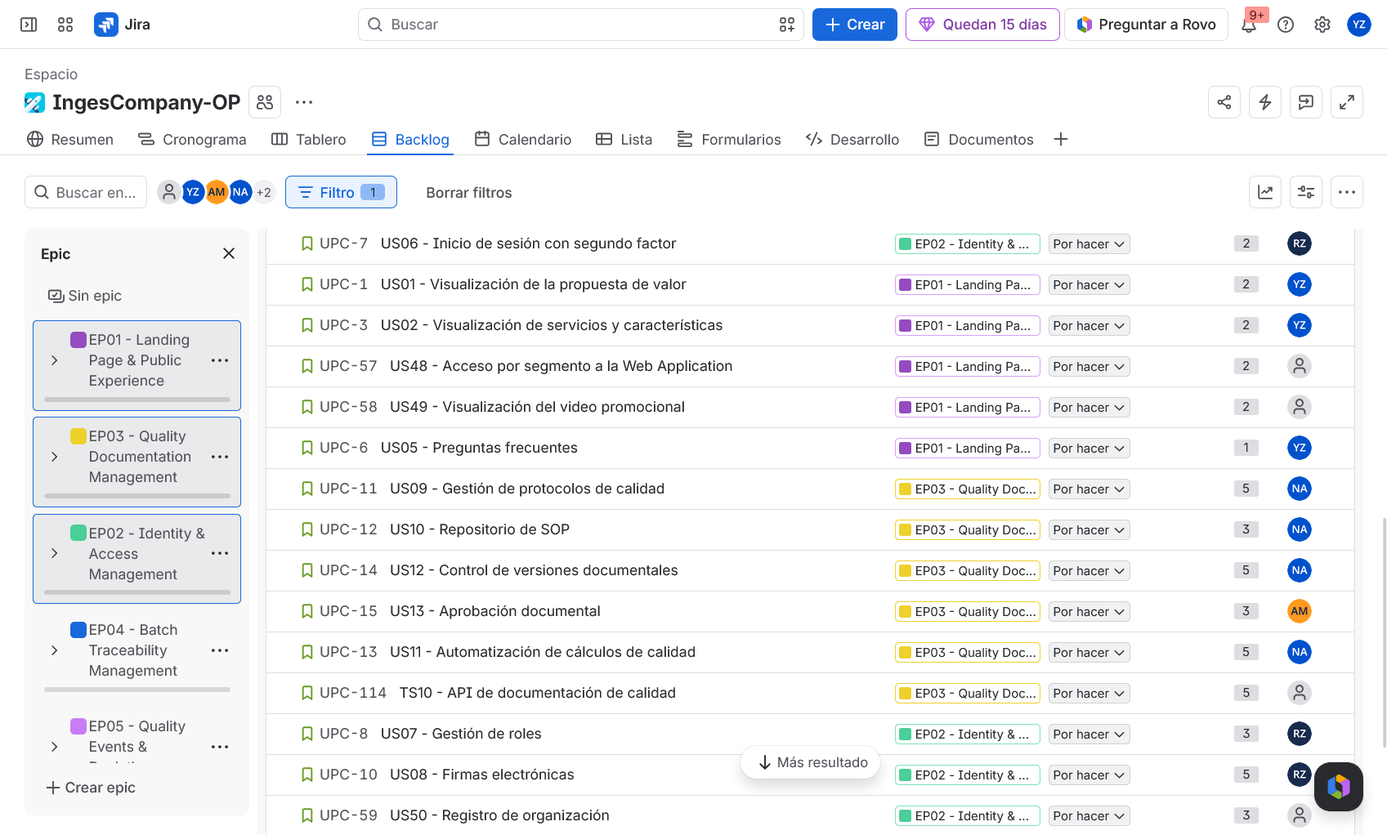
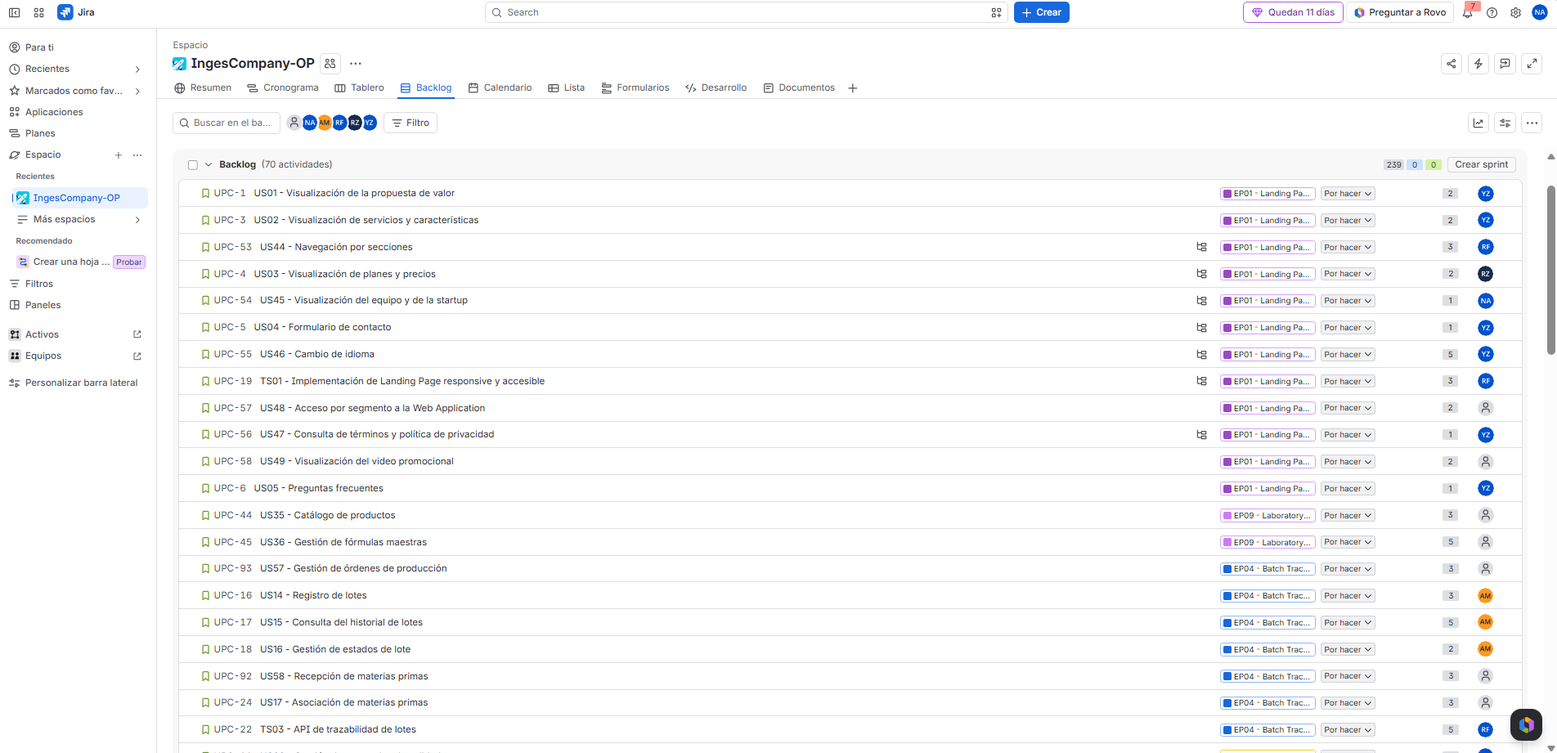
docs(chapter3): order product backlog by user task matrix value

diff --git a/docs/chapter3.md b/docs/chapter3.md
@@ -1,13 +1,22 @@
 # Capítulo III: Requirements Specification
-En este capítulo se presenta los requisitos especìficados de DoofPlus, acorde al análisis de la problemática, los segmentos objetivo y el alcance obtenido durante el desarrollo. La especificación cubre tres productos de la solución: la landing page pública, la aplicación web frontend y los servicios backend RESTful implementados con una arquitectura basada en bounded contexts.
+En este capítulo se presentan los requisitos especificados de DoofPlus, acorde al análisis de la problemática, los segmentos objetivo y el alcance obtenido durante el desarrollo. La especificación cubre tres productos de la solución: la landing page pública, la aplicación web frontend y los servicios backend RESTful implementados con una arquitectura basada en bounded contexts.
 
 
 ## 3.1. User Stories
+
+Las User Stories se obtuvieron a partir de las necesidades identificadas en las entrevistas, los User Personas, el User Task Matrix y el Big Picture EventStorming del capítulo II. Se organizan en 11 epics que agrupan 59 User Stories y 11 Technical Stories, presentadas en un único cuadro con una fila por epic o historia:
+
+- **Landing Page (EP01):** historias redactadas con el rol de visitante o de visitante de un segmento (especialista QA/QC o jefe de producción), que cubren las secciones del sitio estático y su vínculo con la Web Application.
+- **Web Application (EP02 a EP11):** historias de los roles de especialista QA/QC, jefe o supervisor de producción y administrador del laboratorio, agrupadas por capacidades del negocio: identidad y accesos, documentación de calidad, trazabilidad de lotes, desviaciones y CAPA, integración IoT, cumplimiento y auditoría, dashboards, operaciones de laboratorio, comunicación entre áreas y suscripciones.
+- **Technical Stories (TS01 a TS11):** redactadas con el rol Developer. TS01 corresponde a la implementación de la Landing Page y las demás a los endpoints del RESTful API de cada epic, con escenarios de request y response.
+
+Los criterios de aceptación siguen la estructura de Gherkin (Dado que / Cuando / Entonces), se redactan en tiempo presente y en tercera persona, no hacen referencia a detalles de la interfaz de usuario y son comprobables.
+
 | **Epic / Story ID** | **Título** | **Descripción** | **Criterios de Aceptación** | **Relacionado con (Epic ID)** |
 | --- | --- | --- | --- | --- |
 | **EP01** | **Landing Page & Public Experience** | Agrupa las funcionalidades del sitio web estático (Landing Page) que comunican la propuesta de valor a los visitantes de cada segmento y los dirigen a la Web Application. | – | – |
 | US01 | Visualización de la propuesta de valor | Como visitante especialista QA/QC o jefe de producción, quiero conocer la propuesta de valor de DoofPlus para evaluar si responde a las necesidades de mi laboratorio. | **Escenario 1: Visualización de la propuesta de valor**<br>Dado que el visitante accede a la Landing Page<br>Cuando se carga la sección principal (Home)<br>Entonces visualiza el título, la descripción de la propuesta de valor y la opción para comenzar a usar DoofPlus.<br>**Escenario 2: Visualización en dispositivo móvil**<br>Dado que el visitante accede desde un smartphone<br>Cuando se carga la sección principal<br>Entonces la propuesta de valor y la opción para comenzar a usar DoofPlus se muestran completas y adaptadas al dispositivo. | EP01 |
-| US02 | Visualización de servicios y características | Como visitante, quiero conocer los servicios y características de DoofPlus para comprender cómo mejora la trazabilidad y la gestión de calidad. | **Escenario 1: Consulta de servicios**<br>Dado que el visitante navega a la sección de servicios<br>Cuando la sección se muestra<br>Entonces visualiza los servicios Real-Time IoT Telemetry, Digital Batch Record Management, GMP Compliance Engine y Audit-Ready Reports con su descripción.<br>**Escenario 2: Detalle de una característica**<br>Dado que el visitante se encuentra en la sección de características<br>Cuando elige una característica<br>Entonces se muestra su descripción completa. | EP01 |
+| US02 | Visualización de servicios y características | Como visitante, quiero conocer los servicios y características de DoofPlus para comprender cómo mejora la trazabilidad y la gestión de calidad. | **Escenario 1: Consulta de servicios**<br>Dado que el visitante navega a la sección de servicios<br>Cuando la sección se muestra<br>Entonces visualiza los servicios Real-Time IoT Monitoring, Automated BPM Compliance, Immutable Traceability y Digital Batch Management con su descripción.<br>**Escenario 2: Detalle de una característica**<br>Dado que el visitante se encuentra en la sección de características<br>Cuando elige una característica<br>Entonces se muestra su descripción completa. | EP01 |
 | US03 | Visualización de planes y precios | Como visitante responsable de compras de un laboratorio, quiero consultar los planes y precios disponibles para identificar la alternativa más adecuada para mi organización. | **Escenario 1: Consulta de precios mensuales**<br>Dado que el visitante accede a la sección de planes<br>Cuando la sección se muestra<br>Entonces visualiza los planes Standard Lab (US$199/mes) y Enterprise (US$599/mes) con sus características.<br>**Escenario 2: Consulta de precios anuales**<br>Dado que el visitante revisa los planes<br>Cuando elige la modalidad de pago anual<br>Entonces se muestran los precios anuales (US$1,990 y US$5,990) con el ahorro correspondiente. | EP01 |
 | US04 | Formulario de contacto | Como visitante interesado, quiero dejar mi correo electrónico para recibir información y solicitar una demostración de DoofPlus. | **Escenario 1: Envío exitoso**<br>Dado que el visitante ingresa un correo electrónico válido<br>Cuando envía la solicitud<br>Entonces el sistema registra la solicitud y confirma su recepción al visitante.<br>**Escenario 2: Correo inválido**<br>Dado que el visitante ingresa un correo con formato inválido o no ingresa ningún correo<br>Cuando intenta enviar la solicitud<br>Entonces la solicitud no se registra y se informa el motivo del error. | EP01 |
 | US05 | Preguntas frecuentes | Como visitante, quiero consultar preguntas frecuentes para resolver dudas comunes sobre la plataforma. | **Escenario 1: Consulta de una respuesta**<br>Dado que el visitante accede a la sección de preguntas frecuentes<br>Cuando selecciona una pregunta<br>Entonces se muestra la respuesta correspondiente.<br>**Escenario 2: Duda no resuelta**<br>Dado que el visitante no encuentra respuesta a su duda<br>Cuando termina de revisar las preguntas<br>Entonces se le ofrece la opción de contactar al equipo de DoofPlus. | EP01 |
@@ -95,7 +104,24 @@ El Impact Mapping de DoofPlus conecta los objetivos estratégicos del negocio co
 
 ## 3.3. Product Backlog
 
-El Product Backlog de DoofPlus consolida todas las User Stories y Technical Stories identificadas, ordenadas según el valor que aportan al negocio. Las historias relacionadas con la Landing Page se posicionan al inicio dado que corresponden al primer sprint y son el primer punto de contacto con los potenciales clientes. A continuación se presentan las historias del core de calidad y producción farmacéutica, y finalmente las Technical Stories del API.
+El Product Backlog de DoofPlus consolida las 59 User Stories y las 11 Technical Stories de la sección 3.1, con su estimación en Story Points, y las ordena según el valor que aportan al negocio con los siguientes criterios:
+
+1. **Landing Page primero:** sus historias se ubican al inicio porque el sitio estático es el primer punto de contacto con los laboratorios y, según el statement, se considera desde el primer sprint.
+2. **Valor de las historias de la Web Application:** se mide con el User Task Matrix de la sección 2.3.2. Cada tarea recibe un puntaje igual a la suma, para ambos User Personas, de su frecuencia (Often = 3, Occasionally = 2, Rarely = 1) multiplicada por su importancia (High = 3, Medium = 2, Low = 1), y las historias que apoyan cada tarea se ordenan de mayor a menor puntaje. Cada grupo termina con la Technical Story del API que lo soporta.
+3. **Dependencias:** cuando una historia exige otra en sus criterios de aceptación, la requerida se ubica antes. Por ejemplo, US14 requiere un producto con fórmula maestra aprobada, por lo que US35, US36 y la orden de producción (US57) la preceden.
+4. **Identidad y suscripciones al final:** las historias de autenticación y roles no se colocan al inicio, como indica el statement. Las de suscripción y pago cierran el backlog porque la estrategia comercial de la sección 2.1.2 ofrece una prueba piloto de 30 días, de modo que el cobro se activa cuando el laboratorio ya usa el flujo de calidad.
+
+| Tarea del User Task Matrix | Especialista QA/QC | Jefe de Producción | Puntaje | Historias |
+| --- | --- | --- | :---: | --- |
+| Consultar el historial y trazabilidad de un lote | Often / High (9) | Often / High (9) | 18 | US35, US36, US57, US14, US15, US16, US58, US17, TS03 |
+| Gestionar protocolos, registros y documentación de calidad | Often / High (9) | Occasionally / Medium (4) | 13 | US09, US10, US12, US13, TS10 |
+| Registrar y dar seguimiento a desviaciones e incidencias | Occasionally / High (6) | Occasionally / High (6) | 12 | US56, US18, US19, US20, US21, US22, TS11 |
+| Coordinar la aprobación de insumos y materiales con Calidad | Rarely / Medium (2) | Often / High (9) | 11 | US42, US41, US40, US43, TS08 |
+| Revisar y validar cálculos analíticos e informes de calidad | Often / High (9) | Rarely / Low (1) | 10 | US11, US54 |
+| Supervisar el estado de los lotes durante la fabricación | Rarely / Low (1) | Often / High (9) | 10 | US32, US31, TS06, US23, US24, US25, US26, TS04, US37, US38, US39, TS07 |
+| Recopilar evidencias para auditorías e inspecciones | Occasionally / High (6) | Rarely / Medium (2) | 8 | US27, US28, US29, US30, US59, TS05, US33, US34 |
+
+Entre las dos tareas con puntaje 10, la liberación del lote (US54) precede a la supervisión porque cierra el ciclo de vida del lote que mide el primer business goal de la sección 3.2.
 
 | **# Orden** | **User Story Id** | **Título** | **Descripción** | **Story Points (1 / 2 / 3 / 5 / 8)** |
 | --- | --- | --- | --- | --- |
@@ -111,54 +137,54 @@ El Product Backlog de DoofPlus consolida todas las User Stories y Technical Stor
 | 10 | US47 | Consulta de términos y política de privacidad | Como visitante, quiero consultar los términos y condiciones y la política de privacidad para conocer las condiciones del servicio y el tratamiento de mis datos. | 1 |
 | 11 | US49 | Visualización del video promocional | Como visitante, quiero ver un video sobre DoofPlus para entender rápidamente su funcionamiento. | 2 |
 | 12 | US05 | Preguntas frecuentes | Como visitante, quiero consultar preguntas frecuentes para resolver dudas comunes sobre la plataforma. | 1 |
-| 13 | US14 | Registro de lotes | Como supervisor de producción, quiero registrar lotes para iniciar su trazabilidad digital. | 3 |
-| 14 | US15 | Consulta del historial de lotes | Como especialista QA/QC, quiero consultar el historial completo de un lote para revisar sus registros y eventos asociados. | 5 |
-| 15 | US16 | Gestión de estados de lote | Como supervisor de producción, quiero actualizar el estado de los lotes durante su ciclo de vida para reflejar su avance real. | 2 |
-| 16 | US17 | Asociación de materias primas | Como supervisor de producción, quiero asociar las materias primas utilizadas a un lote para mantener su trazabilidad completa. | 3 |
-| 17 | US58 | Recepción de materias primas | Como supervisor de producción, quiero registrar la recepción de materias primas con su lote de proveedor para que queden en cuarentena hasta su aprobación por Calidad. | 3 |
-| 18 | US57 | Gestión de órdenes de producción | Como jefe de producción, quiero crear y aprobar órdenes de producción para planificar la fabricación de los lotes. | 3 |
-| 19 | US56 | Registro y escalamiento de incidencias | Como supervisor de producción, quiero registrar las incidencias de un lote y escalarlas a Calidad para que se investiguen sin detener la producción más de lo necesario. | 3 |
-| 20 | TS03 | API de trazabilidad de lotes | Como Developer, quiero exponer endpoints REST para registrar y consultar lotes y su línea de tiempo. | 5 |
-| 21 | US18 | Registro de desviaciones | Como especialista QA/QC, quiero registrar desviaciones para realizar su seguimiento y análisis. | 3 |
-| 22 | US19 | Análisis de causa raíz | Como especialista QA/QC, quiero documentar el análisis de causa raíz (RCA) para identificar el origen de las desviaciones. | 5 |
-| 23 | US20 | Gestión CAPA | Como especialista QA/QC, quiero registrar acciones correctivas y preventivas derivadas de una desviación para evitar su recurrencia. | 5 |
-| 24 | US21 | Seguimiento de acciones CAPA | Como especialista QA/QC, quiero monitorear el avance de las acciones CAPA abiertas para asegurar su cumplimiento. | 3 |
-| 25 | US22 | Notificaciones de desviación crítica | Como especialista QA/QC, quiero recibir alertas cuando se registre una desviación crítica para actuar de inmediato. | 2 |
-| 26 | TS11 | API de desviaciones y CAPA | Como Developer, quiero exponer endpoints REST para gestionar desviaciones, causas raíz y acciones CAPA. | 5 |
-| 27 | US54 | Revisión y liberación de lotes | Como especialista QA/QC, quiero poner en cuarentena, evaluar y liberar o rechazar los lotes cerrados para que solo se distribuyan productos conformes. | 5 |
-| 28 | US27 | Audit trail | Como especialista QA/QC, quiero consultar todas las modificaciones realizadas sobre los registros para demostrar la integridad de los datos. | 5 |
-| 29 | US28 | Generación automática de reportes | Como especialista QA/QC, quiero generar reportes regulatorios automáticamente para reducir el tiempo de preparación. | 5 |
-| 30 | US29 | Preparación de auditorías | Como especialista QA/QC, quiero consolidar la documentación requerida para una auditoría para responder a tiempo a los inspectores. | 5 |
-| 31 | US30 | Acceso de auditor a evidencias | Como auditor interno, quiero acceder en modo lectura a las evidencias de los lotes para verificar el cumplimiento. | 3 |
-| 32 | US59 | Registro de auditorías y hallazgos | Como especialista QA/QC, quiero programar auditorías y registrar sus hallazgos para dar seguimiento a su cierre. | 3 |
-| 33 | TS05 | API de auditoría | Como Developer, quiero exponer endpoints para consultar los eventos del audit trail. | 3 |
-| 34 | US09 | Gestión de protocolos de calidad | Como especialista QA/QC, quiero registrar protocolos digitales para estandarizar los procesos y cumplir las BPM. | 5 |
-| 35 | US10 | Repositorio de SOP | Como especialista QA/QC, quiero consultar los procedimientos operativos estándar vigentes para aplicar siempre la versión aprobada. | 3 |
-| 36 | US12 | Control de versiones documentales | Como especialista QA/QC, quiero mantener el historial de versiones de cada documento para garantizar su integridad. | 5 |
-| 37 | US13 | Aprobación documental | Como jefe de aseguramiento de calidad, quiero aprobar documentos mediante firma electrónica para asegurar la trazabilidad regulatoria. | 3 |
-| 38 | US11 | Automatización de cálculos de calidad | Como especialista QA/QC, quiero que el sistema calcule automáticamente los resultados analíticos para reducir errores manuales. | 5 |
-| 39 | TS10 | API de documentación de calidad | Como Developer, quiero exponer endpoints REST para gestionar protocolos, SOP y sus versiones. | 5 |
-| 40 | US42 | Solicitudes de aprobación | Como supervisor de producción, quiero solicitar aprobaciones a Calidad (por ejemplo, liberación de insumos) para continuar la fabricación sin demoras. | 2 |
-| 41 | US41 | Notificaciones entre áreas | Como especialista de calidad, quiero recibir las solicitudes de Producción para atenderlas a tiempo. | 3 |
-| 42 | US40 | Bandeja de tareas | Como usuario, quiero visualizar mis tareas pendientes para atenderlas oportunamente. | 3 |
-| 43 | US43 | Seguimiento de tareas | Como usuario, quiero monitorear el estado de las tareas que asigné para asegurar su cumplimiento. | 3 |
-| 44 | TS08 | Servicio de notificaciones en tiempo real | Como Developer, quiero implementar notificaciones en tiempo real con WebSocket (STOMP sobre Spring WebSocket) para distribuir eventos sin recargar la Web Application. | 5 |
-| 45 | US31 | Dashboard de calidad | Como especialista QA/QC, quiero visualizar indicadores de calidad para priorizar mis actividades. | 3 |
-| 46 | US32 | Dashboard de producción | Como supervisor de producción, quiero visualizar el estado de los lotes en curso para tomar decisiones oportunas. | 3 |
-| 47 | US33 | Indicadores de trazabilidad | Como jefe de calidad, quiero monitorear el porcentaje de lotes con trazabilidad completa para anticipar observaciones de auditoría. | 3 |
-| 48 | US34 | Indicadores de desviaciones | Como jefe de calidad, quiero identificar tendencias de desviaciones para prevenir su recurrencia. | 3 |
-| 49 | TS06 | API de KPIs | Como Developer, quiero exponer métricas consolidadas para los dashboards. | 5 |
-| 50 | US23 | Registro de dispositivos IoT | Como administrador del laboratorio, quiero registrar los sensores IoT conectados para controlar su inventario. | 3 |
-| 51 | US24 | Asociación de sensores a un lote | Como supervisor de producción, quiero asociar los sensores de un equipo a un lote en fabricación para vincular sus lecturas. | 3 |
-| 52 | US25 | Captura automática de evidencias | Como supervisor de producción, quiero que las variables críticas se registren automáticamente para evitar la transcripción manual. | 5 |
-| 53 | US26 | Consulta de registros IoT | Como especialista QA/QC, quiero consultar los datos IoT asociados a un lote para respaldar su liberación. | 3 |
-| 54 | TS04 | API de ingesta IoT | Como Developer, quiero implementar un endpoint que reciba la telemetría enviada por ThingsBoard. | 5 |
-| 55 | US35 | Catálogo de productos | Como jefe de producción, quiero administrar los productos farmacéuticos para fabricarlos en nuevos lotes. | 3 |
-| 56 | US36 | Gestión de fórmulas maestras | Como jefe de producción, quiero registrar las fórmulas maestras aprobadas para que cada lote se fabrique según la especificación autorizada. | 5 |
-| 57 | US37 | Gestión de equipos | Como supervisor de producción, quiero registrar los equipos utilizados en la fabricación para controlar su estado. | 3 |
-| 58 | US38 | Gestión de calibraciones | Como supervisor de producción, quiero controlar la calibración de equipos y sensores para asegurar mediciones válidas. | 3 |
-| 59 | US39 | Mantenimiento preventivo | Como supervisor de producción, quiero registrar los mantenimientos preventivos para evitar paradas no planificadas. | 3 |
-| 60 | TS07 | API de operaciones de laboratorio | Como Developer, quiero implementar endpoints REST para productos, fórmulas y equipos. | 5 |
+| 13 | US35 | Catálogo de productos | Como jefe de producción, quiero administrar los productos farmacéuticos para fabricarlos en nuevos lotes. | 3 |
+| 14 | US36 | Gestión de fórmulas maestras | Como jefe de producción, quiero registrar las fórmulas maestras aprobadas para que cada lote se fabrique según la especificación autorizada. | 5 |
+| 15 | US57 | Gestión de órdenes de producción | Como jefe de producción, quiero crear y aprobar órdenes de producción para planificar la fabricación de los lotes. | 3 |
+| 16 | US14 | Registro de lotes | Como supervisor de producción, quiero registrar lotes para iniciar su trazabilidad digital. | 3 |
+| 17 | US15 | Consulta del historial de lotes | Como especialista QA/QC, quiero consultar el historial completo de un lote para revisar sus registros y eventos asociados. | 5 |
+| 18 | US16 | Gestión de estados de lote | Como supervisor de producción, quiero actualizar el estado de los lotes durante su ciclo de vida para reflejar su avance real. | 2 |
+| 19 | US58 | Recepción de materias primas | Como supervisor de producción, quiero registrar la recepción de materias primas con su lote de proveedor para que queden en cuarentena hasta su aprobación por Calidad. | 3 |
+| 20 | US17 | Asociación de materias primas | Como supervisor de producción, quiero asociar las materias primas utilizadas a un lote para mantener su trazabilidad completa. | 3 |
+| 21 | TS03 | API de trazabilidad de lotes | Como Developer, quiero exponer endpoints REST para registrar y consultar lotes y su línea de tiempo. | 5 |
+| 22 | US09 | Gestión de protocolos de calidad | Como especialista QA/QC, quiero registrar protocolos digitales para estandarizar los procesos y cumplir las BPM. | 5 |
+| 23 | US10 | Repositorio de SOP | Como especialista QA/QC, quiero consultar los procedimientos operativos estándar vigentes para aplicar siempre la versión aprobada. | 3 |
+| 24 | US12 | Control de versiones documentales | Como especialista QA/QC, quiero mantener el historial de versiones de cada documento para garantizar su integridad. | 5 |
+| 25 | US13 | Aprobación documental | Como jefe de aseguramiento de calidad, quiero aprobar documentos mediante firma electrónica para asegurar la trazabilidad regulatoria. | 3 |
+| 26 | TS10 | API de documentación de calidad | Como Developer, quiero exponer endpoints REST para gestionar protocolos, SOP y sus versiones. | 5 |
+| 27 | US56 | Registro y escalamiento de incidencias | Como supervisor de producción, quiero registrar las incidencias de un lote y escalarlas a Calidad para que se investiguen sin detener la producción más de lo necesario. | 3 |
+| 28 | US18 | Registro de desviaciones | Como especialista QA/QC, quiero registrar desviaciones para realizar su seguimiento y análisis. | 3 |
+| 29 | US19 | Análisis de causa raíz | Como especialista QA/QC, quiero documentar el análisis de causa raíz (RCA) para identificar el origen de las desviaciones. | 5 |
+| 30 | US20 | Gestión CAPA | Como especialista QA/QC, quiero registrar acciones correctivas y preventivas derivadas de una desviación para evitar su recurrencia. | 5 |
+| 31 | US21 | Seguimiento de acciones CAPA | Como especialista QA/QC, quiero monitorear el avance de las acciones CAPA abiertas para asegurar su cumplimiento. | 3 |
+| 32 | US22 | Notificaciones de desviación crítica | Como especialista QA/QC, quiero recibir alertas cuando se registre una desviación crítica para actuar de inmediato. | 2 |
+| 33 | TS11 | API de desviaciones y CAPA | Como Developer, quiero exponer endpoints REST para gestionar desviaciones, causas raíz y acciones CAPA. | 5 |
+| 34 | US42 | Solicitudes de aprobación | Como supervisor de producción, quiero solicitar aprobaciones a Calidad (por ejemplo, liberación de insumos) para continuar la fabricación sin demoras. | 2 |
+| 35 | US41 | Notificaciones entre áreas | Como especialista de calidad, quiero recibir las solicitudes de Producción para atenderlas a tiempo. | 3 |
+| 36 | US40 | Bandeja de tareas | Como usuario, quiero visualizar mis tareas pendientes para atenderlas oportunamente. | 3 |
+| 37 | US43 | Seguimiento de tareas | Como usuario, quiero monitorear el estado de las tareas que asigné para asegurar su cumplimiento. | 3 |
+| 38 | TS08 | Servicio de notificaciones en tiempo real | Como Developer, quiero implementar notificaciones en tiempo real con WebSocket (STOMP sobre Spring WebSocket) para distribuir eventos sin recargar la Web Application. | 5 |
+| 39 | US11 | Automatización de cálculos de calidad | Como especialista QA/QC, quiero que el sistema calcule automáticamente los resultados analíticos para reducir errores manuales. | 5 |
+| 40 | US54 | Revisión y liberación de lotes | Como especialista QA/QC, quiero poner en cuarentena, evaluar y liberar o rechazar los lotes cerrados para que solo se distribuyan productos conformes. | 5 |
+| 41 | US32 | Dashboard de producción | Como supervisor de producción, quiero visualizar el estado de los lotes en curso para tomar decisiones oportunas. | 3 |
+| 42 | US31 | Dashboard de calidad | Como especialista QA/QC, quiero visualizar indicadores de calidad para priorizar mis actividades. | 3 |
+| 43 | TS06 | API de KPIs | Como Developer, quiero exponer métricas consolidadas para los dashboards. | 5 |
+| 44 | US23 | Registro de dispositivos IoT | Como administrador del laboratorio, quiero registrar los sensores IoT conectados para controlar su inventario. | 3 |
+| 45 | US24 | Asociación de sensores a un lote | Como supervisor de producción, quiero asociar los sensores de un equipo a un lote en fabricación para vincular sus lecturas. | 3 |
+| 46 | US25 | Captura automática de evidencias | Como supervisor de producción, quiero que las variables críticas se registren automáticamente para evitar la transcripción manual. | 5 |
+| 47 | US26 | Consulta de registros IoT | Como especialista QA/QC, quiero consultar los datos IoT asociados a un lote para respaldar su liberación. | 3 |
+| 48 | TS04 | API de ingesta IoT | Como Developer, quiero implementar un endpoint que reciba la telemetría enviada por ThingsBoard. | 5 |
+| 49 | US37 | Gestión de equipos | Como supervisor de producción, quiero registrar los equipos utilizados en la fabricación para controlar su estado. | 3 |
+| 50 | US38 | Gestión de calibraciones | Como supervisor de producción, quiero controlar la calibración de equipos y sensores para asegurar mediciones válidas. | 3 |
+| 51 | US39 | Mantenimiento preventivo | Como supervisor de producción, quiero registrar los mantenimientos preventivos para evitar paradas no planificadas. | 3 |
+| 52 | TS07 | API de operaciones de laboratorio | Como Developer, quiero implementar endpoints REST para productos, fórmulas y equipos. | 5 |
+| 53 | US27 | Audit trail | Como especialista QA/QC, quiero consultar todas las modificaciones realizadas sobre los registros para demostrar la integridad de los datos. | 5 |
+| 54 | US28 | Generación automática de reportes | Como especialista QA/QC, quiero generar reportes regulatorios automáticamente para reducir el tiempo de preparación. | 5 |
+| 55 | US29 | Preparación de auditorías | Como especialista QA/QC, quiero consolidar la documentación requerida para una auditoría para responder a tiempo a los inspectores. | 5 |
+| 56 | US30 | Acceso de auditor a evidencias | Como auditor interno, quiero acceder en modo lectura a las evidencias de los lotes para verificar el cumplimiento. | 3 |
+| 57 | US59 | Registro de auditorías y hallazgos | Como especialista QA/QC, quiero programar auditorías y registrar sus hallazgos para dar seguimiento a su cierre. | 3 |
+| 58 | TS05 | API de auditoría | Como Developer, quiero exponer endpoints para consultar los eventos del audit trail. | 3 |
+| 59 | US33 | Indicadores de trazabilidad | Como jefe de calidad, quiero monitorear el porcentaje de lotes con trazabilidad completa para anticipar observaciones de auditoría. | 3 |
+| 60 | US34 | Indicadores de desviaciones | Como jefe de calidad, quiero identificar tendencias de desviaciones para prevenir su recurrencia. | 3 |
 | 61 | US06 | Inicio de sesión con segundo factor | Como usuario registrado, quiero iniciar sesión con mi contraseña y un código 2FA para acceder de forma segura a las funcionalidades de mi rol. | 2 |
 | 62 | US07 | Gestión de roles | Como administrador del laboratorio, quiero asignar roles a los usuarios para controlar el acceso a funcionalidades específicas. | 3 |
 | 63 | US08 | Firmas electrónicas | Como especialista de calidad, quiero firmar electrónicamente las acciones críticas para validarlas conforme a los requisitos regulatorios. | 5 |
@@ -177,7 +203,6 @@ El Product Backlog de DoofPlus consolida todas las User Stories y Technical Stor
 A continuación, se muestra la gestión del backlog en la herramienta Jira Software, evidenciando la priorización y estimación de las historias.
 
 ![Evidence Product Backlog Jira](../assets/img/chapter3/product-backlog-jira.png)
-
 *Figura: Captura del Product Backlog en Jira Software.*
 
-**Enlace al Product Backlog en Jira:** [click aquí](https://doofplus.atlassian.net/jira/software/projects/UPC/boards/3/backlog?jql=parent+IN+%28UPC-2%2C+UPC-9%2C+UPC-20%29&atlOrigin=eyJpIjoiOWZkY2NhNGFkYzdlNGFmNGJlZTE4MTY1OGVjNjAyZDciLCJwIjoiaiJ9)
+**Enlace al Product Backlog en Jira:** [click aquí](https://doofplus.atlassian.net/jira/software/projects/UPC/boards/3/backlog)
